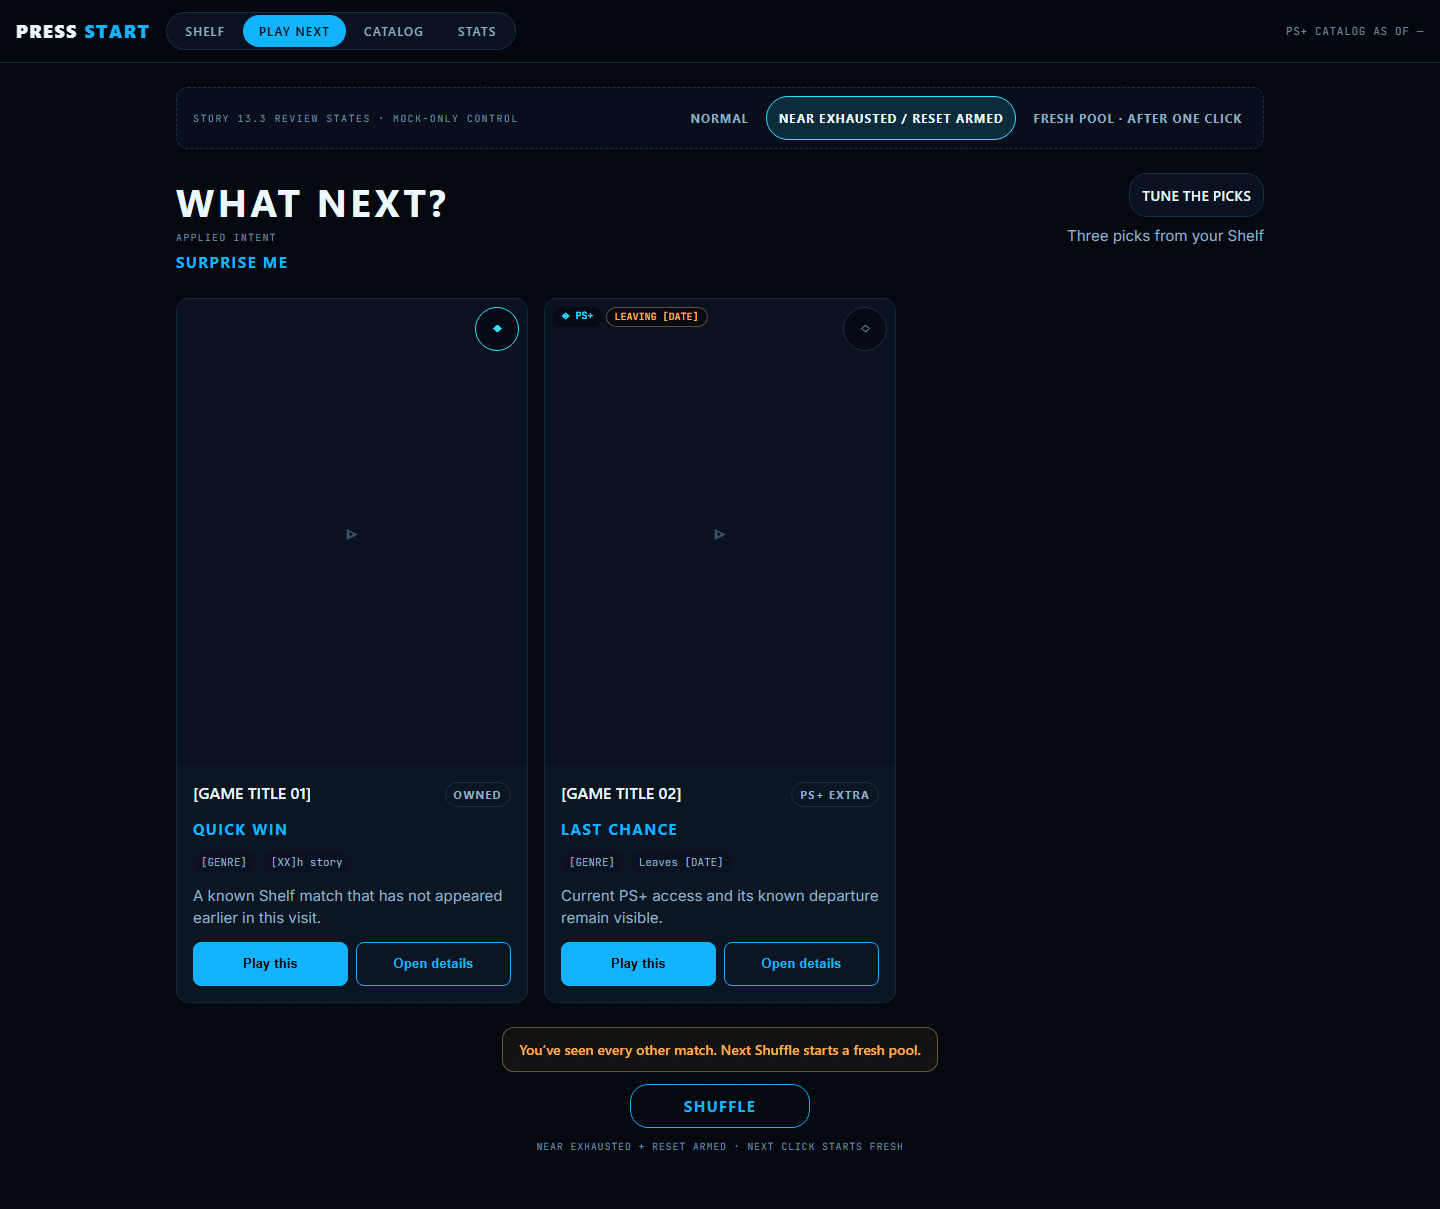
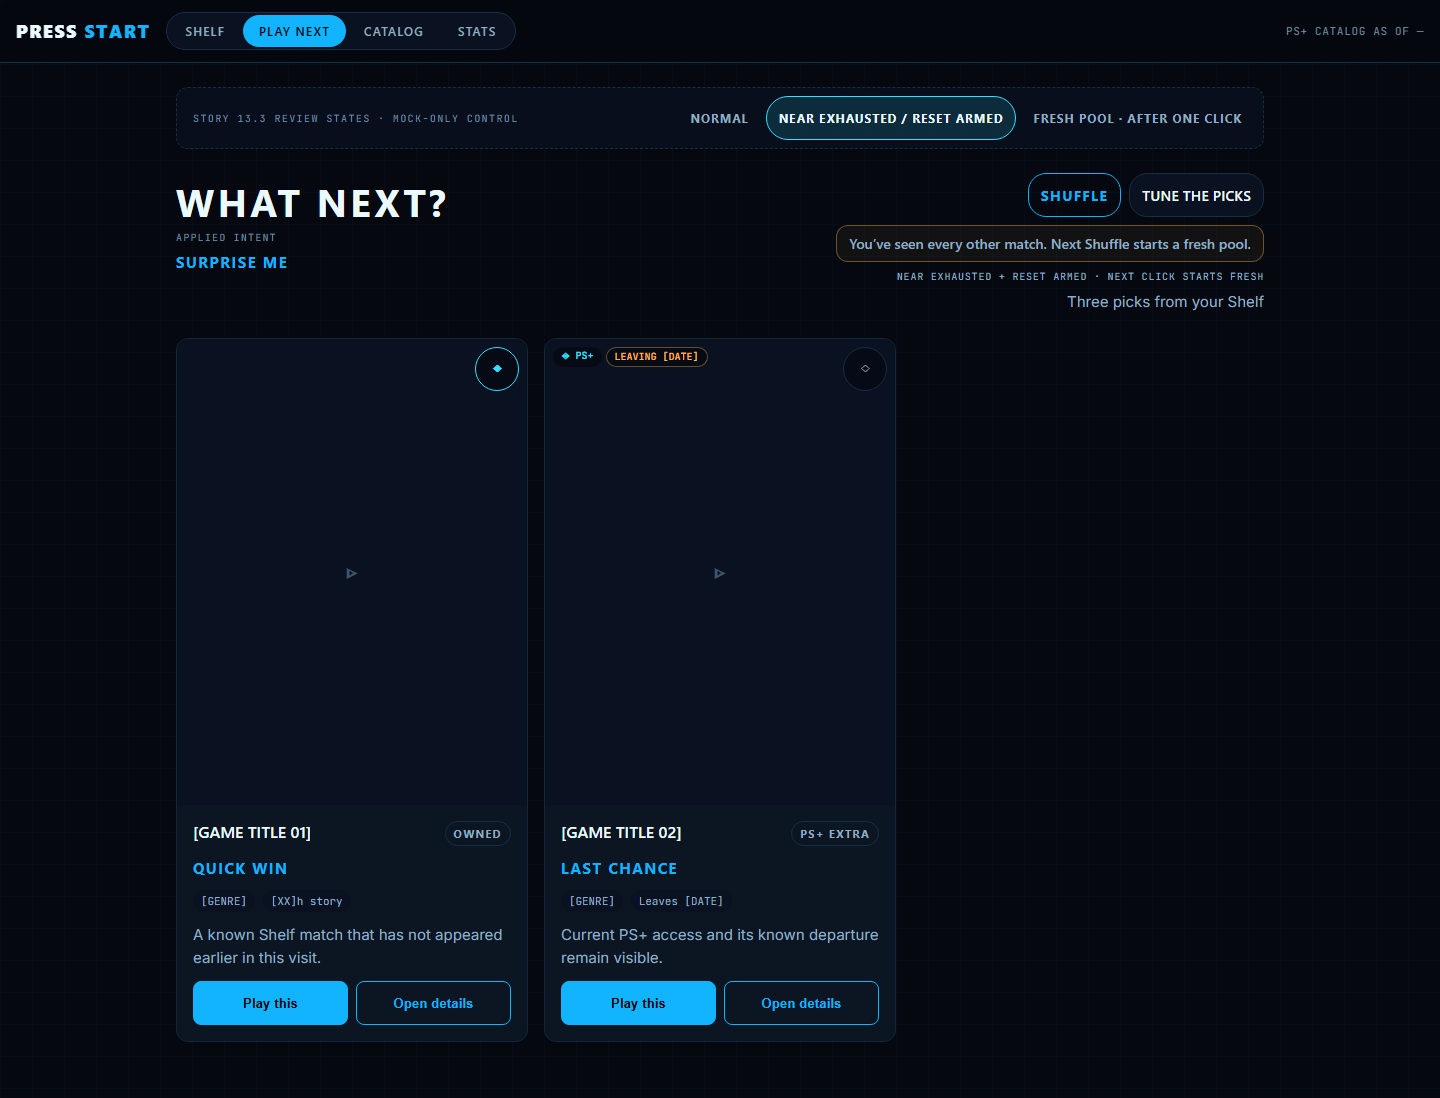
fix(design): group play next commands

diff --git a/_bmad-output/design-demos/epic-13-play-next/06-story-13-3-shuffle-states.html b/_bmad-output/design-demos/epic-13-play-next/06-story-13-3-shuffle-states.html
@@ -7,7 +7,8 @@
 <!--
 ASSUMPTIONS / ITERATION SOURCE
 - Continuation of Luca-approved Direction A and binding 05 Story 13.2 modal/card mock.
-- Production UI adds only Shuffle below cards and adjacent exhaustion status.
+- Production UI adds Shuffle immediately left of Tune in the top command row.
+- Exhaustion status sits under that command row, before the cards.
 - State switcher is mock-only review chrome, never production UI.
 - Near-exhausted IS reset-ready. One next Shuffle immediately produces a fresh slate
   while excluding the two cards currently visible. There is no intermediate click.
@@ -48,8 +49,9 @@ main{max-width:1120px;margin:auto;padding:var(--space-5) var(--space-4) 56px}
 .play-next__header h1{margin:0;font-family:var(--font-display);font-size:clamp(1.6rem,4vw,2.4rem);letter-spacing:.08em}
 .play-next__applied{display:block;color:var(--color-text-muted);font:10px var(--font-mono);letter-spacing:.12em}
 .play-next__mode{display:inline-flex;margin-top:var(--space-2);color:var(--color-accent-electric);font:700 15px var(--font-ui);letter-spacing:.1em}
-.play-next__controls{display:flex;flex-direction:column;align-items:flex-end;gap:var(--space-2)}
+.play-next__controls{display:flex;max-width:520px;flex-direction:column;align-items:flex-end;gap:var(--space-2)}
 .play-next__controls p{margin:0;color:var(--color-text-secondary)}
+.command-row{display:flex;justify-content:flex-end;gap:var(--space-2)}
 .tune-trigger{display:inline-flex;align-items:center;gap:var(--space-2);min-height:var(--hit-target);padding:var(--space-2) var(--space-3);border:1px solid var(--color-border-hairline);border-radius:var(--radius-lg);background:var(--color-surface-raised);color:var(--color-text-primary);font:600 .9rem var(--font-ui)}
 .play-next__grid{display:grid;grid-template-columns:repeat(3,minmax(0,1fr));gap:var(--space-4)}
 .card{display:flex;flex-direction:column;min-width:0;overflow:hidden;background:var(--color-surface);border:1px solid var(--color-border-soft);border-radius:var(--radius-md)}
@@ -70,12 +72,11 @@ main{max-width:1120px;margin:auto;padding:var(--space-5) var(--space-4) 56px}
 .card__facts{display:flex;flex-wrap:wrap;gap:var(--space-2);margin:0;padding:0;list-style:none}.card__facts li{padding:var(--space-1) var(--space-2);border-radius:var(--radius-pill);background:var(--color-surface-raised);color:var(--color-text-secondary);font:.68rem var(--font-mono)}
 .card__explanation{margin:0;color:var(--color-text-secondary)}
 .card__actions{display:grid;grid-template-columns:1fr 1fr;gap:var(--space-2);margin-top:auto}.card__actions button{min-height:var(--hit-target);padding:var(--space-2);border:1px solid var(--color-accent-electric);border-radius:var(--radius-sm);background:transparent;color:var(--color-accent-electric);font-weight:700}.card__actions button:first-child{background:var(--color-accent-electric);color:var(--color-void)}
-.shuffle-zone{display:grid;justify-items:center;gap:var(--space-3);margin-top:var(--space-5)}
-.shuffle-warning{max-width:660px;margin:0;padding:var(--space-3) var(--space-4);border:1px solid rgba(255,178,84,.4);border-radius:var(--radius-md);background:rgba(255,178,84,.06);color:var(--color-warn-amber);font:600 14px var(--font-ui);text-align:center}
+.shuffle-warning{max-width:520px;margin:0;padding:var(--space-2) var(--space-3);border:1px solid rgba(255,178,84,.4);border-radius:var(--radius-md);background:rgba(255,178,84,.06);color:var(--color-warn-amber);font:600 14px var(--font-ui);text-align:right}
 .shuffle-warning[hidden]{display:none}
-.shuffle-button{display:inline-flex;align-items:center;justify-content:center;min-width:180px;min-height:var(--hit-target);padding:var(--space-2) var(--space-5);border:1px solid var(--color-accent-electric);border-radius:var(--radius-lg);background:transparent;color:var(--color-accent-electric);font:700 15px var(--font-ui);letter-spacing:.1em}
+.shuffle-button{display:inline-flex;align-items:center;justify-content:center;min-height:var(--hit-target);padding:var(--space-2) var(--space-3);border:1px solid var(--color-accent-electric);border-radius:var(--radius-lg);background:transparent;color:var(--color-accent-electric);font:700 .9rem var(--font-ui);letter-spacing:.08em}
 .shuffle-button:hover,.shuffle-button:focus-visible{background:rgba(18,179,255,.12)}
-.state-caption{margin:0;color:var(--color-text-muted);font:10px var(--font-mono);letter-spacing:.08em;text-align:center}
+.state-caption{margin:0;color:var(--color-text-muted);font:10px var(--font-mono);letter-spacing:.08em;text-align:right}
 .tune__backdrop{position:fixed;inset:0;z-index:var(--z-overlay);display:flex;align-items:center;justify-content:center;padding:var(--space-5);background:rgba(5,9,15,.7)}.tune__backdrop[hidden]{display:none}
 .tune{width:min(680px,100%);max-height:80vh;overflow:auto;padding:var(--space-4);border:1px solid var(--color-border-hairline);border-radius:var(--radius-lg);background:var(--color-surface-raised);box-shadow:0 0 28px rgba(53,224,255,.18)}
 .tune__head{display:flex;align-items:flex-start;justify-content:space-between;gap:var(--space-4)}.tune__title{margin:0 0 var(--space-3);font:600 .9rem var(--font-display);letter-spacing:.08em;text-transform:uppercase}.tune__close{display:grid;place-items:center;width:var(--hit-target);height:var(--hit-target);padding:0;border:1px solid var(--color-border-hairline);border-radius:var(--radius-pill);background:transparent;color:var(--color-text-primary);font-size:20px}
@@ -87,8 +88,8 @@ main{max-width:1120px;margin:auto;padding:var(--space-5) var(--space-4) 56px}
 @media(max-width:600px){
 	.app-header{gap:var(--space-2);padding:var(--space-3);background:var(--color-void);backdrop-filter:none}.destination-toggle{order:3;flex:1 0 100%}.destination-toggle__tab{flex:1;padding-inline:var(--space-1)}.app-header__readout{font-size:10px}
 	main{padding:var(--space-4) var(--space-3) 48px}.mock-bar{align-items:flex-start;flex-direction:column}.mock-bar__label{margin-top:var(--space-2)}.mock-bar__states{width:100%}.mock-state{flex:1;padding-inline:var(--space-2);font-size:10px}
-	.play-next__header{flex-direction:column}.play-next__controls{align-items:flex-start}.play-next__grid{grid-template-columns:repeat(2,minmax(0,1fr));gap:var(--space-2)}
-	.card__content{padding:var(--space-2) var(--space-3) var(--space-3)}.card__title-row{flex-direction:column;gap:var(--space-1)}.card__title-row h2{font-size:12.5px}.card__actions{grid-template-columns:1fr}.shuffle-zone{margin-top:var(--space-4)}.shuffle-warning{text-align:left}.shuffle-button{width:100%}
+	.play-next__header{flex-direction:column}.play-next__controls{width:100%;max-width:none;align-items:flex-start}.command-row{width:100%}.command-row button{flex:1}.shuffle-warning{width:100%;max-width:none;text-align:left}.state-caption{text-align:left}.play-next__grid{grid-template-columns:repeat(2,minmax(0,1fr));gap:var(--space-2)}
+	.card__content{padding:var(--space-2) var(--space-3) var(--space-3)}.card__title-row{flex-direction:column;gap:var(--space-1)}.card__title-row h2{font-size:12.5px}.card__actions{grid-template-columns:1fr}
 	.tune__backdrop{align-items:flex-end;padding:0}.tune{width:100%;max-height:80vh;padding-bottom:calc(var(--space-4) + env(safe-area-inset-bottom,0px));border:0;border-top:1px solid var(--color-border-hairline);border-radius:var(--radius-lg) var(--radius-lg) 0 0;box-shadow:none}.tune__groups{grid-template-columns:1fr}
 }
 @media(prefers-reduced-motion:reduce){*{scroll-behavior:auto!important;transition-duration:.001ms!important}}
@@ -114,17 +115,17 @@ main{max-width:1120px;margin:auto;padding:var(--space-5) var(--space-4) 56px}
 	<section aria-labelledby="play-next-heading">
 		<header class="play-next__header">
 			<div><h1 id="play-next-heading">WHAT NEXT?</h1><span class="play-next__applied">APPLIED INTENT</span><span class="play-next__mode">SURPRISE ME</span></div>
-			<div class="play-next__controls"><button class="tune-trigger" type="button" aria-haspopup="dialog" aria-expanded="false">TUNE THE PICKS</button><p>Three picks from your Shelf</p></div>
+			<div class="play-next__controls">
+				<div class="command-row"><button class="shuffle-button" type="button">SHUFFLE</button><button class="tune-trigger" type="button" aria-haspopup="dialog" aria-expanded="false">TUNE THE PICKS</button></div>
+				<p class="shuffle-warning" role="status" hidden>You’ve seen every other match. Next Shuffle starts a fresh pool.</p>
+				<p class="state-caption">NORMAL · THREE UNSEEN MATCHES AVAILABLE</p>
+				<p>Three picks from your Shelf</p>
+			</div>
 		</header>
 		<div class="play-next__grid" aria-label="Current suggestions">
 			<article class="card" data-card="1"><div class="card__cover"><button class="card__cover-button" type="button" aria-label="Open details — Game title 01"><span class="card__cover-fallback" aria-hidden="true">▹</span></button><button class="card__owned-toggle" type="button" aria-pressed="true" aria-label="Owned — Game title 01"><span aria-hidden="true">◆</span></button><div class="card__flags"></div></div><div class="card__content"><div class="card__title-row"><h2>[GAME TITLE 01]</h2><span class="card__access">OWNED</span></div><p class="card__reason">QUICK WIN</p><ul class="card__facts"><li>[GENRE]</li><li>[XX]h story</li></ul><p class="card__explanation">A known Shelf match that has not appeared earlier in this visit.</p><div class="card__actions"><button type="button">Play this</button><button type="button">Open details</button></div></div></article>
 			<article class="card" data-card="2"><div class="card__cover"><button class="card__cover-button" type="button" aria-label="Open details — Game title 02"><span class="card__cover-fallback" aria-hidden="true">▹</span></button><button class="card__owned-toggle" type="button" aria-pressed="false" aria-label="Owned — Game title 02"><span aria-hidden="true">◇</span></button><div class="card__flags"><span class="card__flag card__flag--ps-extra">◈ PS+</span><span class="card__flag card__flag--leaving">LEAVING [DATE]</span></div></div><div class="card__content"><div class="card__title-row"><h2>[GAME TITLE 02]</h2><span class="card__access">PS+ EXTRA</span></div><p class="card__reason">LAST CHANCE</p><ul class="card__facts"><li>[GENRE]</li><li>Leaves [DATE]</li></ul><p class="card__explanation">Current PS+ access and its known departure remain visible.</p><div class="card__actions"><button type="button">Play this</button><button type="button">Open details</button></div></div></article>
 			<article class="card" data-card="3"><div class="card__cover"><button class="card__cover-button" type="button" aria-label="Open details — Game title 03"><span class="card__cover-fallback" aria-hidden="true">▹</span></button><button class="card__owned-toggle" type="button" aria-pressed="true" aria-label="Owned — Game title 03"><span aria-hidden="true">◆</span></button><div class="card__flags"></div></div><div class="card__content"><div class="card__title-row"><h2>[GAME TITLE 03]</h2><span class="card__access">OWNED</span></div><p class="card__reason">WILDCARD</p><ul class="card__facts"><li>[KNOWN FACT]</li></ul><p class="card__explanation">A third unseen pick completes the normal three-card slate.</p><div class="card__actions"><button type="button">Play this</button><button type="button">Open details</button></div></div></article>
-		</div>
-		<div class="shuffle-zone">
-			<p class="shuffle-warning" role="status" hidden>You’ve seen every other match. Next Shuffle starts a fresh pool.</p>
-			<button class="shuffle-button" type="button">SHUFFLE</button>
-			<p class="state-caption">NORMAL · THREE UNSEEN MATCHES AVAILABLE</p>
 		</div>
 	</section>
 </main>

diff --git a/_bmad-output/implementation-artifacts/spec-13-3-shuffle-without-repetition.md b/_bmad-output/implementation-artifacts/spec-13-3-shuffle-without-repetition.md
@@ -81,7 +81,7 @@ Near-exhausted and reset-ready are one state, not two steps. Once the smaller sl
 
 Exclusions are an optional core selection input and affect eligibility only after full-snapshot context such as Familiar genre anchors is derived. Seed suffixes use one monotonic visit generation counter across Tune and Shuffle so every explicit generation is deterministic and distinct.
 
-Shuffle is a native button below the suggestion grid, matching the approved Story 13.2 card/tuning structure. Warning is programmatic status text adjacent to the control. Motion changes use existing CSS transitions only and are disabled under `prefers-reduced-motion: reduce`.
+Shuffle is a native button immediately left of `TUNE THE PICKS` in the top command row. Exhaustion warning is programmatic status text directly beneath that row and before the suggestion grid. On phone both commands share the full-width row with 44px targets. Motion changes use existing CSS transitions only and are disabled under `prefers-reduced-motion: reduce`.
 
 ## Verification
 

diff --git a/_bmad-output/design-demos/epic-13-play-next/direction-approved.md b/_bmad-output/design-demos/epic-13-play-next/direction-approved.md
@@ -112,3 +112,17 @@ Applied interpretation:
 - Removed the misleading intermediate reset-ready state and its screenshots.
 
 Status: pending Luca's explicit approval of revised Story 13.3 mock before UI implementation.
+
+## Story 13.3 placement correction — verbatim
+
+> I'd move the shuffle to the left of tune picks. So that all commands are up top
+
+Applied interpretation:
+
+- Shuffle moves from below the suggestion grid to immediately left of
+  `TUNE THE PICKS` in the page-header command row.
+- Exhaustion warning moves with it, directly below the command row and before
+  the cards.
+- Phone keeps both commands together in one full-width, two-button row.
+
+Status: pending Luca's explicit approval of revised Story 13.3 placement.
